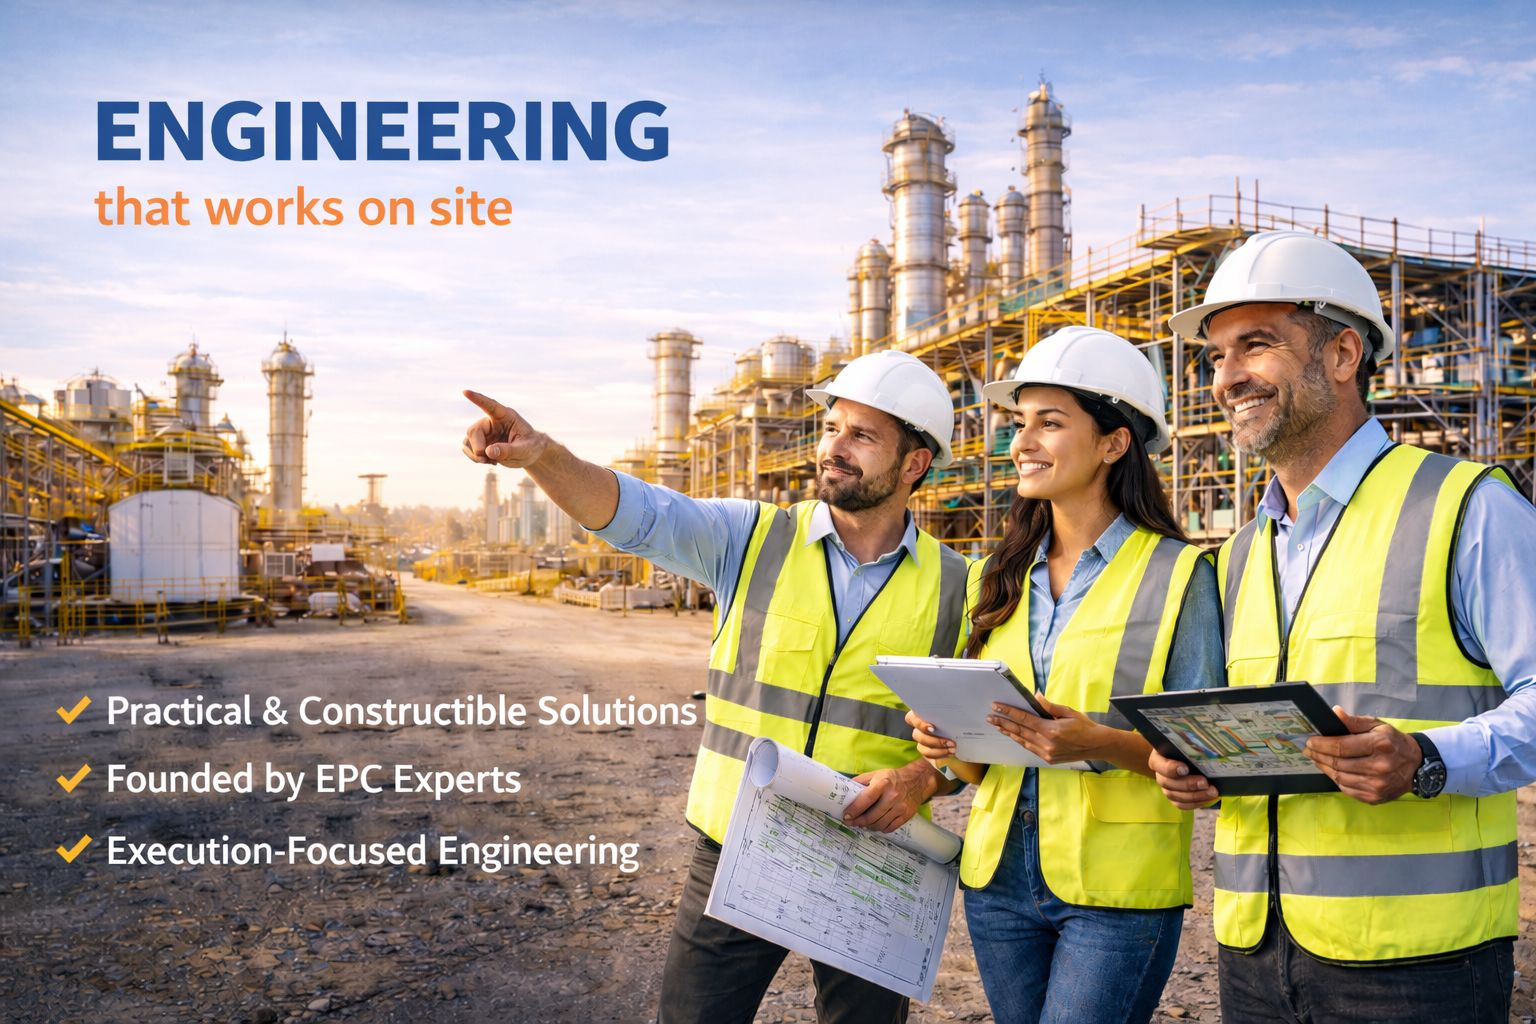
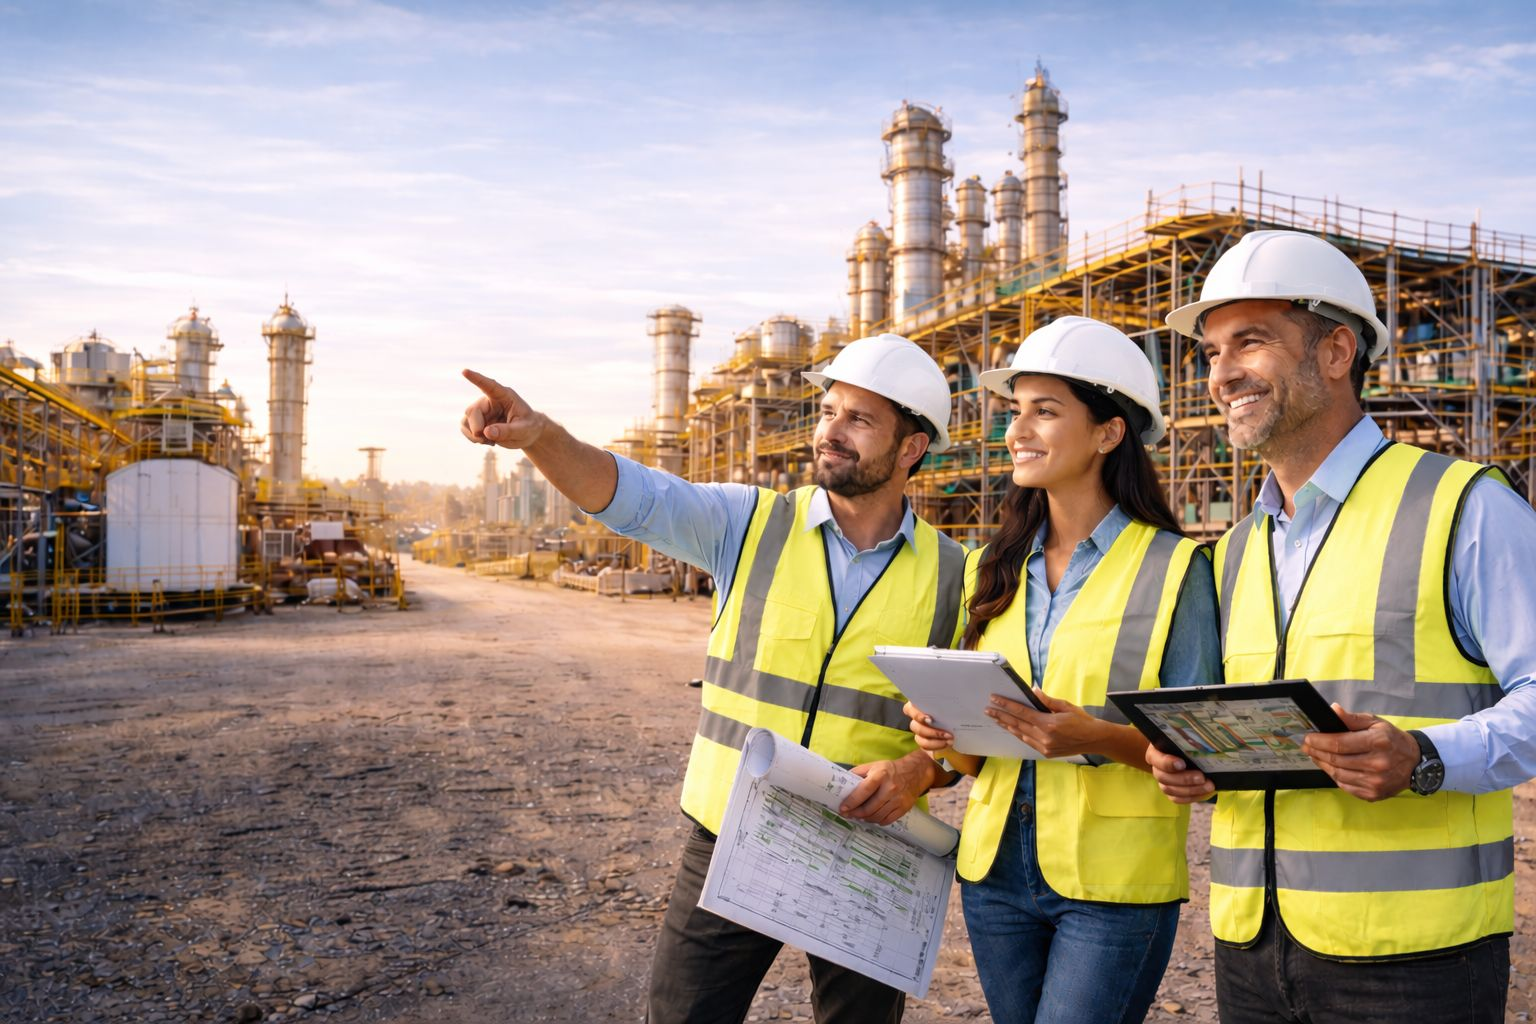
changes

diff --git a/src/pages/About.tsx b/src/pages/About.tsx
@@ -27,7 +27,11 @@ const About = () => {
                 Founded by experienced engineering professionals with extensive EPC exposure, Futunir delivers practical, constructible, and execution-focused engineering solutions across multiple industries.
               </p>
               <p className="text-muted-foreground leading-relaxed font-medium text-left">
-                We do not believe in over-designed drawings. We believe in engineering that works on site.
+                We do not believe in over-designed drawings.<p className="text-muted-foreground leading-relaxed">
+  <span className="font-semibold text-secondary">
+    We believe in engineering that works on site.
+  </span>
+</p>
               </p>
             </div>
             <div className="rounded-xl overflow-hidden card-shadow">

diff --git a/vite.config.ts b/vite.config.ts
@@ -3,11 +3,13 @@ import react from "@vitejs/plugin-react-swc";
 import path from "path";
 import { componentTagger } from "lovable-tagger";
 
-// https://vitejs.dev/config/
 export default defineConfig(({ mode }) => ({
   server: {
     host: "::",
     port: 8080,
+    allowedHosts: [
+      "timmy-semimature-unpoisonously.ngrok-free.dev",
+    ],
     hmr: {
       overlay: false,
     },

diff --git a/src/pages/ServiceDetail.tsx b/src/pages/ServiceDetail.tsx
@@ -277,7 +277,7 @@ const ServiceDetail = () => {
               {hasSubTitle ? (
                 <>
                   {/* Line 1: 3D Modelling & 2D Drafting */}
-                  <span className="block whitespace-nowrap">
+                  <span className="whitespace-normal md:whitespace-nowrap">
                     {titleMain}
                   </span>
 
